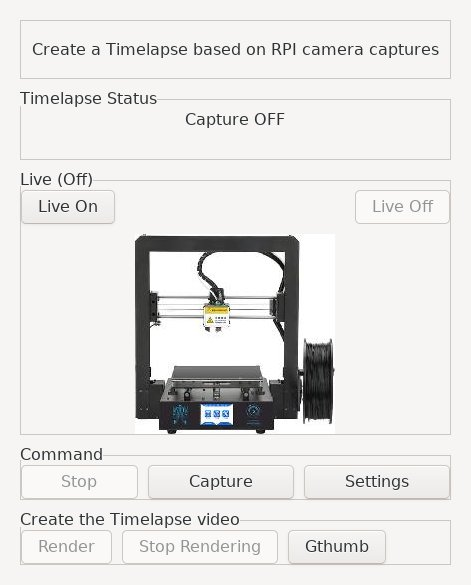
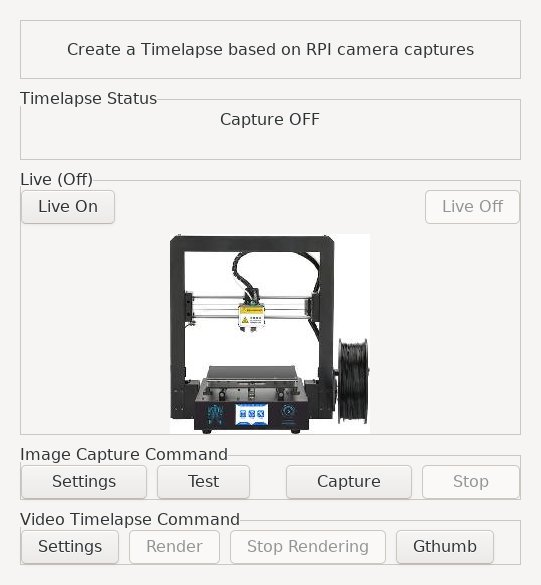
add a spinner while doing a test, update images

diff --git a/capture_rpi_cam.py b/capture_rpi_cam.py
@@ -529,9 +529,9 @@ class MainBox(Gtk.Window):
         newimg.save('/tmp/_cover.jpg')
         self.live = Gtk.Image()
         self.live.set_from_file("/tmp/_cover.jpg")
-        self.live_on_button = Gtk.Button(label="Live On")
+        self.live_on_button = Gtk.Button(label="Live ON")
         self.live_on_button.connect("clicked", self.start_live)
-        self.live_off_button = Gtk.Button(label="Live Off")
+        self.live_off_button = Gtk.Button(label="Live OFF")
         self.live_off_button.set_sensitive(False)
         self.live_off_button.connect("clicked", self.stop_live)
         # vbox contains status and live
@@ -601,16 +601,17 @@ class MainBox(Gtk.Window):
         vboxs.set_orientation(Gtk.Orientation.VERTICAL)
         vboxs.set_spacing(10)
         vboxs.pack_start(self.status, True, False, 1)
+        vboxs.pack_start(self.test_spinner, False, False, 0)
         self.nb_capture.set_visible(False)
         vboxs.pack_start(self.nb_capture, False, False, 0)
 
         framestatus = Gtk.Frame()
-        framestatus.set_label("Timelapse Status")
+        framestatus.set_label("Status")
         framestatus.add(vboxs)
         framestatus.show()
 
         self.framelive = Gtk.Frame()
-        self.framelive.set_label("Live (Off)")
+        self.framelive.set_label("Live (OFF)")
         self.framelive.set_tooltip_text("Live ON/OFF | Capture (ON/OFF)")
         self.framelive.add(self.vboxlive)
         self.framelive.show()
@@ -620,7 +621,6 @@ class MainBox(Gtk.Window):
         hboxbut.set_spacing(10)
         hboxbut.pack_start(self.settings_button, True, True, 0)
         hboxbut.pack_start(self.t_button, True, True, 0)
-        hboxbut.pack_start(self.test_spinner, False, False, 0)
         hboxbut.pack_start(self.c_button, True, True, 0)
         hboxbut.pack_end(self.s_button, True, True, 0)
         framebut = Gtk.Frame()
@@ -695,7 +695,7 @@ class MainBox(Gtk.Window):
        # Create GStreamer pipeline
         self.vboxlive.remove(self.live)
         self.vboxlive.add(self.drawingarea)
-        self.framelive.set_label("Live (On)")
+        self.framelive.set_label("Live (ON)")
         self.live_on_button.set_sensitive(False)
         self.live_off_button.set_sensitive(True)
         self.c_button.set_sensitive(False)
@@ -713,7 +713,7 @@ class MainBox(Gtk.Window):
         self.runvideo()
 
     def stop_live(self, button):
-        self.framelive.set_label("Live (Off)")
+        self.framelive.set_label("Live (OFF)")
         self.vboxlive.remove(self.drawingarea)
         self.vboxlive.add(self.live)
         self.live_on_button.set_sensitive(True)
@@ -749,7 +749,7 @@ class MainBox(Gtk.Window):
             print(self.sptest.stdout)
             print(self.sptest.stderr)
             self.t_button.set_sensitive(True)
-            self.render_spinner.stop()
+            self.test_spinner.stop()
             dialog = Gtk.MessageDialog(
                 transient_for=self,
                 flags=0,
@@ -770,7 +770,8 @@ class MainBox(Gtk.Window):
             self.render_button.set_sensitive(True)
             self.settings_button.set_sensitive(True)
             self.live_on_button.set_sensitive(True)
-            self.render_spinner.stop()
+            self.status.set_text("Capture OFF")
+            self.test_spinner.stop()
             dialog.run()
             dialog.destroy()
             return False
@@ -909,8 +910,9 @@ class MainBox(Gtk.Window):
         command = "raspistill" + " -rot " + rot + " -o " + self.working_dir + "/test." + self.encoding + " --width " + width + " --height " + height + " --quality " + quality +  " --encoding " + self.encoding + " " + extra
                 #+ "2> /tmp/_datafile"
         print(command)
+        self.status.set_text("Testing a Capture")
         self.sptest = subprocess.Popen(command, cwd=self.working_dir, shell=True, stdout=subprocess.PIPE, stderr=subprocess.PIPE)
-        self.render_spinner.start()
+        self.test_spinner.start()
         self.source_id = GLib.timeout_add(2000, self.Update_test_rendering)
 
     def start_capture(self, button):
@@ -979,7 +981,7 @@ class MainBox(Gtk.Window):
                 self.ratio = float(int(width)/int(height))
                 # wait for first image
                 self.live.set_from_file("/usr/share/icons/gnome/48x48/status/image-loading.png")
-                self.framelive.set_label("Capture (On)")
+                self.framelive.set_label("Capture (ON)")
                 # wait for first image...
                 time.sleep(2)
                 self.source_id = GLib.timeout_add(int(self.timelapse), self.Update_info, self)
@@ -1016,7 +1018,7 @@ class MainBox(Gtk.Window):
                     proc.kill()
                     outs, errs = proc.communicate()
                 self.status.set_text("Capture OFF")
-                self.framelive.set_label("Live (Off)")
+                self.framelive.set_label("Live (OFF)")
                 self.c_button.set_sensitive(True)
                 self.settings_button.set_sensitive(True)
                 self.s_button.set_sensitive(False)
